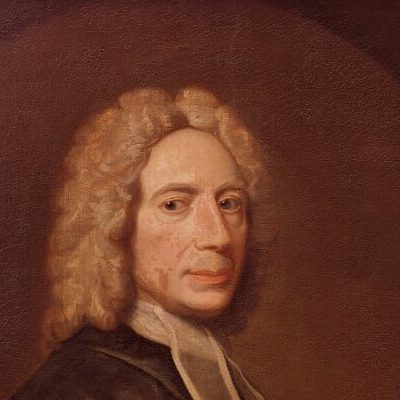
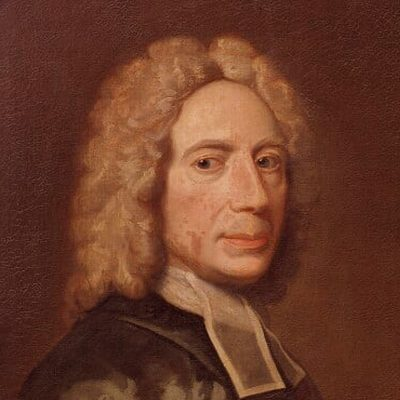
Forbedr Watts' square-portræt

diff --git a/docs/xml-portraits-format.md b/docs/xml-portraits-format.md
@@ -151,8 +151,21 @@ Regler:
 - Det første fundne `square-src` bruges.
 - `square-src` er en manuelt beskåret kvadratisk fil, fx `p1-square.jpg`, på
   højst 600 × 600 px.
-- Beskær portrættet, så øjnenes midtpunkt ligger i kvadratets geometriske
-  centrum.
+- Brug en naturlig, klassisk portrætkomposition, hvor hele hovedet er synligt;
+  beskær aldrig hårtop, hage eller ansigt.
+- Lad hovedet fylde ca. 55-65 % af kvadratets højde, og placér øjenlinjen ca.
+  38-42 % nede fra billedets overkant. Øjnene skal ikke ligge i kvadratets
+  geometriske centrum.
+- Bevar normalt ca. 5-10 % luft over håret, og medtag hals, krave og noget af
+  skuldrene, når originalen tillader det.
+- Tving ikke ansigtet til at være vandret centreret. Bevar så vidt muligt
+  originalens naturlige komposition og asymmetri, og tag hensyn til blikretning
+  og kroppens placering.
+- Undgå både meget tætte ansigtsudsnit og udsnit med unødigt meget brystkasse
+  eller tom baggrund.
+- Prioritér i denne rækkefølge: naturligt portrætudsnit, passende hovedstørrelse,
+  synligt hoved/hals/skuldre, øjenlinjens placering og først derefter geometrisk
+  centrering.
 
 Eksempel:
 
